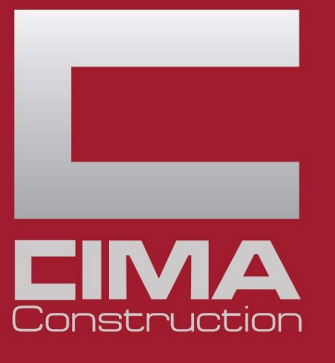
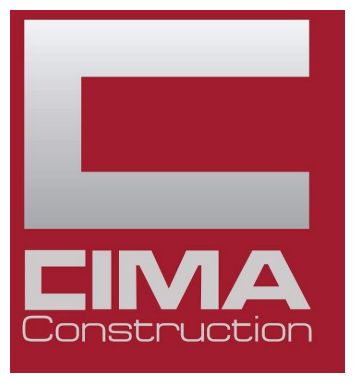
Bashkëpunëtorët: logot shfaqen të plota dhe me ngjyrë
Kuti me madhësi fikse + object-contain (më parë disa logo merrnin
madhësi 0 ose priteshin); hiqet hapësira transparente rreth logove.

Claude-Session: https://claude.ai/code/session_01ELpgirhLktW5TQPh68GBip

Changed region(s): [[0.0, 0.0, 1.0, 1.0]]

diff --git a/components/Bashkepunetoret.tsx b/components/Bashkepunetoret.tsx
@@ -26,18 +26,22 @@ const bashkepunetoret = [
 
 function Pllaka({ b, fshehur }: { b: (typeof bashkepunetoret)[number]; fshehur?: boolean }) {
   return (
-    <li
-      className="shrink-0 pr-4 sm:pr-5"
-      aria-hidden={fshehur || undefined}
-    >
-      <div className="group grid h-24 w-44 place-items-center rounded-lg bg-white px-5 py-4 ring-1 ring-stone-line sm:h-28 sm:w-52">
-      <Image
-        src={`/images/bashkepunetoret/${b.logo}.png`}
-        alt={fshehur ? '' : b.emri}
-        width={180}
-        height={90}
-        className="max-h-full w-auto max-w-full object-contain opacity-80 grayscale transition duration-300 group-hover:opacity-100 group-hover:grayscale-0"
-      />
+    <li className="shrink-0 pr-4 sm:pr-5" aria-hidden={fshehur || undefined}>
+      <div
+        className="flex h-28 w-48 items-center justify-center rounded-lg bg-white p-3 shadow-[0_1px_0_rgba(14,42,48,0.06)] ring-1 ring-stone-line transition-shadow hover:shadow-[0_10px_30px_-12px_rgba(14,42,48,0.35)] sm:h-32 sm:w-56"
+        title={b.emri}
+      >
+        {/* Kuti me madhësi fikse + object-contain: logoja shfaqet gjithmonë e plotë */}
+        <div className="relative h-full w-full">
+          <Image
+            src={`/images/bashkepunetoret/${b.logo}.png`}
+            alt={fshehur ? '' : b.emri}
+            fill
+            sizes="(max-width: 640px) 170px, 210px"
+            loading="eager"
+            className="object-contain"
+          />
+        </div>
       </div>
     </li>
   )
@@ -52,7 +56,7 @@ export default function Bashkepunetoret() {
       </div>
 
       {/* Shirit që lëviz ngadalë; ndalet kur kalon mausi. Pa lëvizje nëse përdoruesi e ka çaktivizuar. */}
-      <div className="bashkepunetoret-shirit relative [mask-image:linear-gradient(90deg,transparent,#000_6%,#000_94%,transparent)]">
+      <div className="bashkepunetoret-shirit relative [mask-image:linear-gradient(90deg,transparent,#000_3%,#000_97%,transparent)]">
         <ul className="bashkepunetoret-track flex w-max">
           {bashkepunetoret.map((b) => (
             <Pllaka key={b.logo} b={b} />

diff --git a/app/globals.css b/app/globals.css
@@ -165,7 +165,7 @@
 
 /* Shiriti i bashkëpunëtorëve */
 .bashkepunetoret-track {
-  animation: bashkepunetoret-leviz 70s linear infinite;
+  animation: bashkepunetoret-leviz 80s linear infinite;
 }
 .bashkepunetoret-shirit:hover .bashkepunetoret-track,
 .bashkepunetoret-shirit:focus-within .bashkepunetoret-track {
